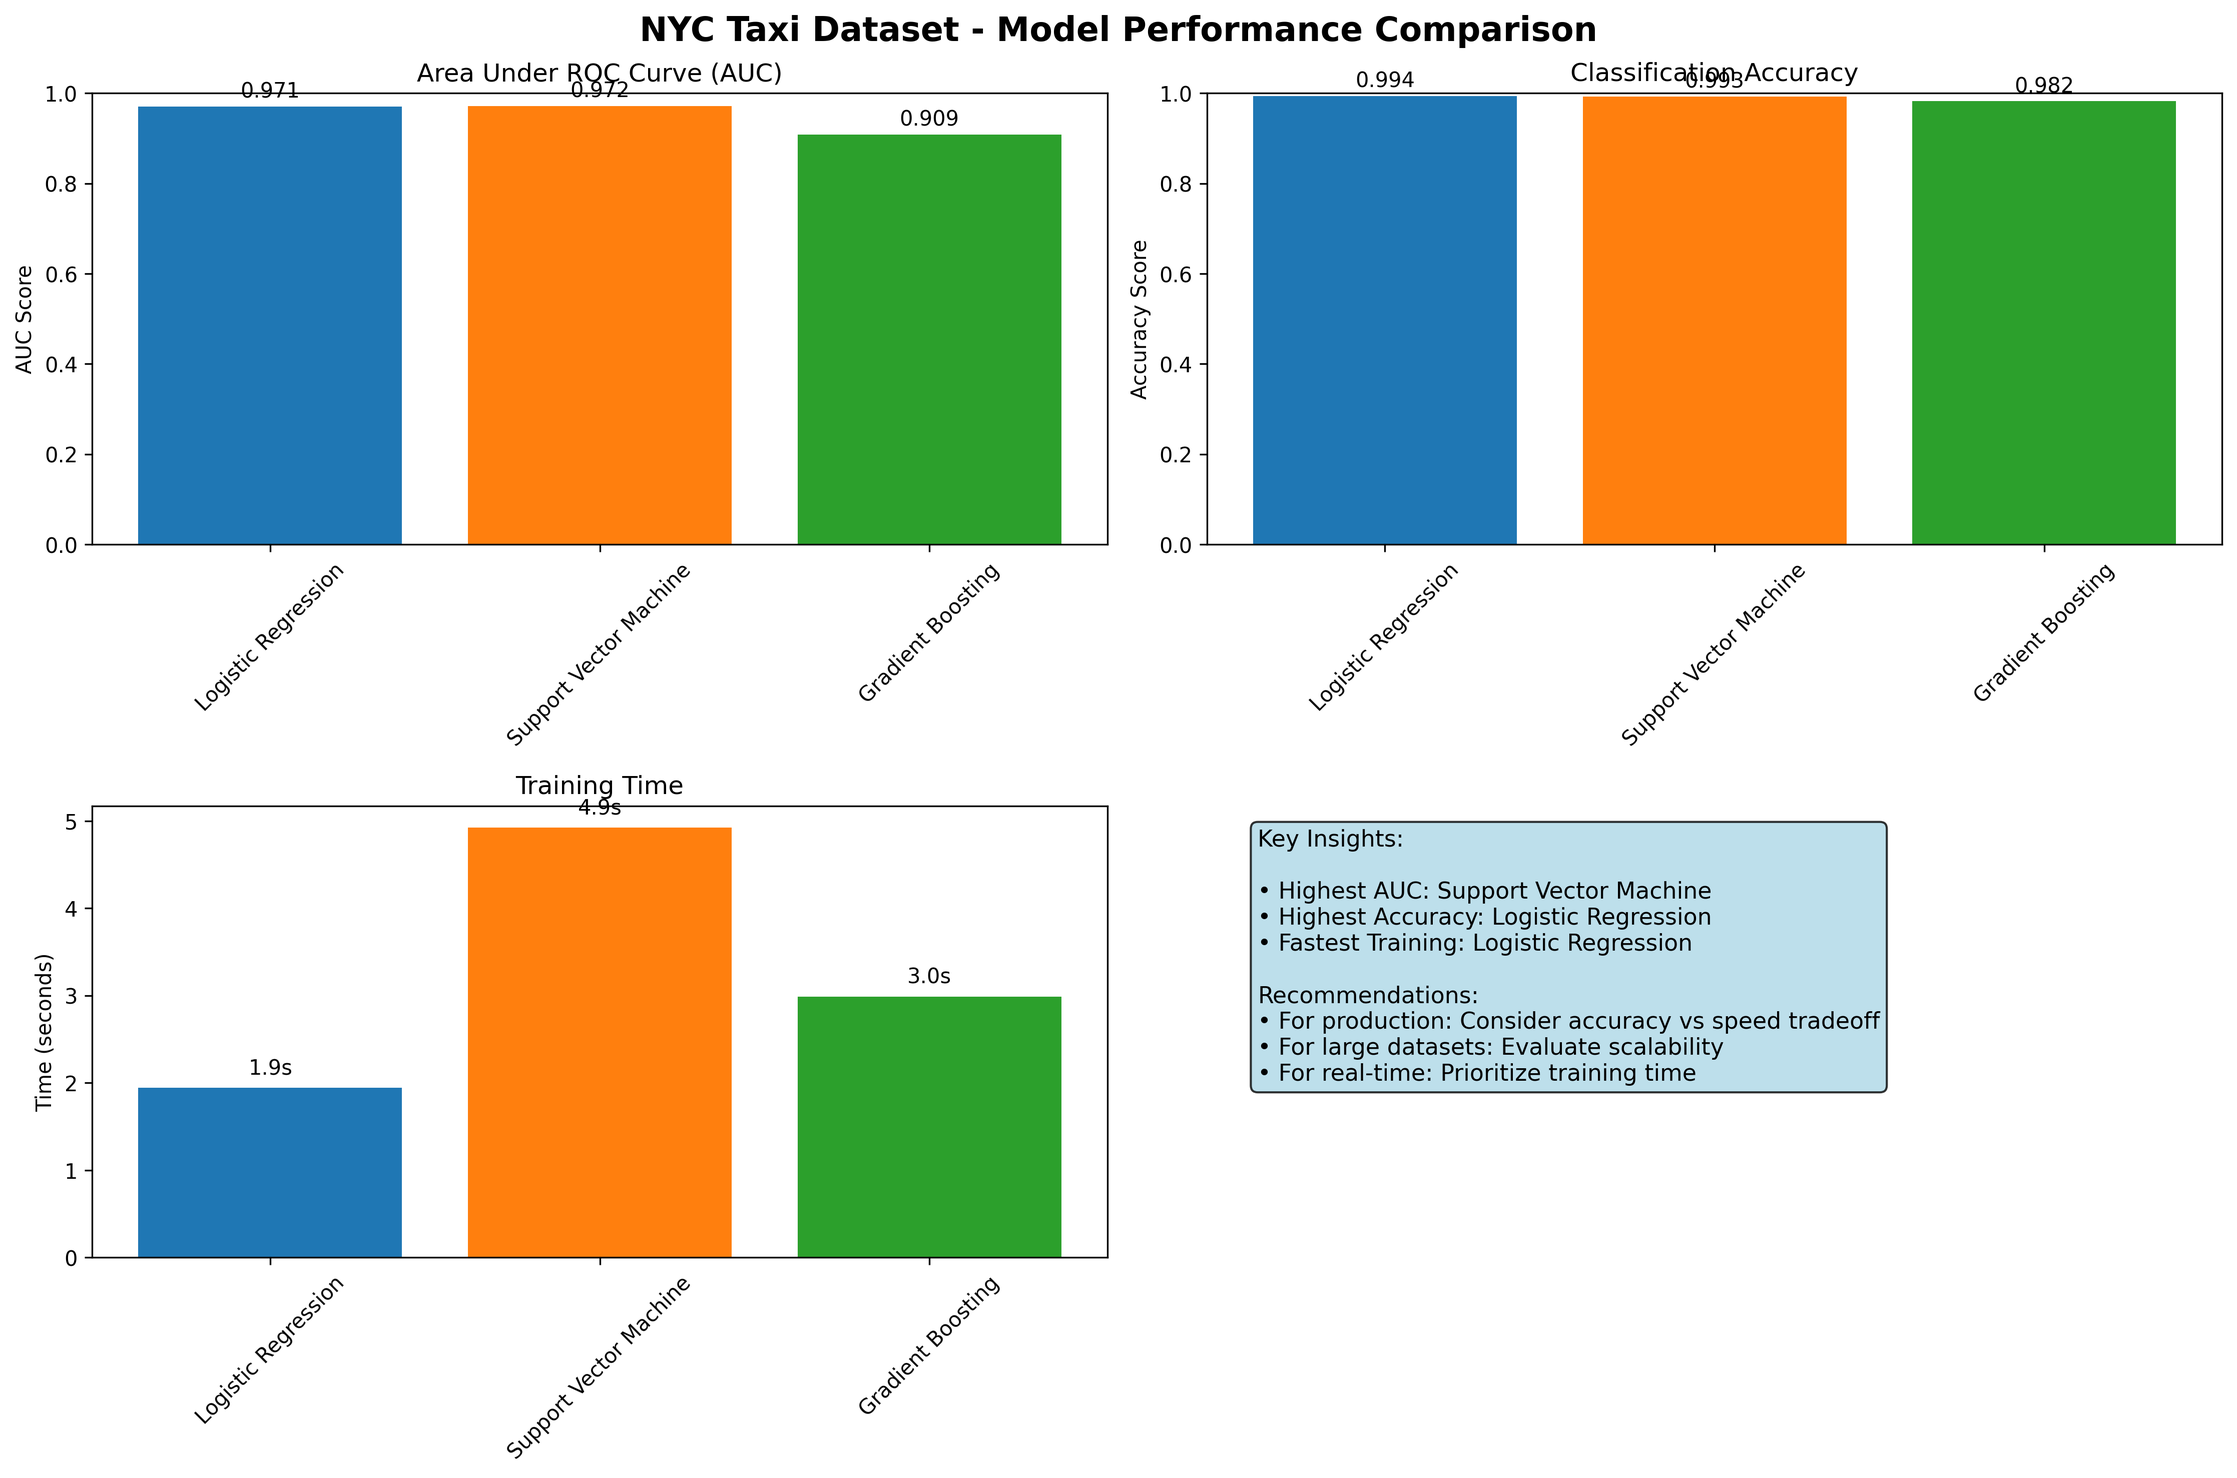
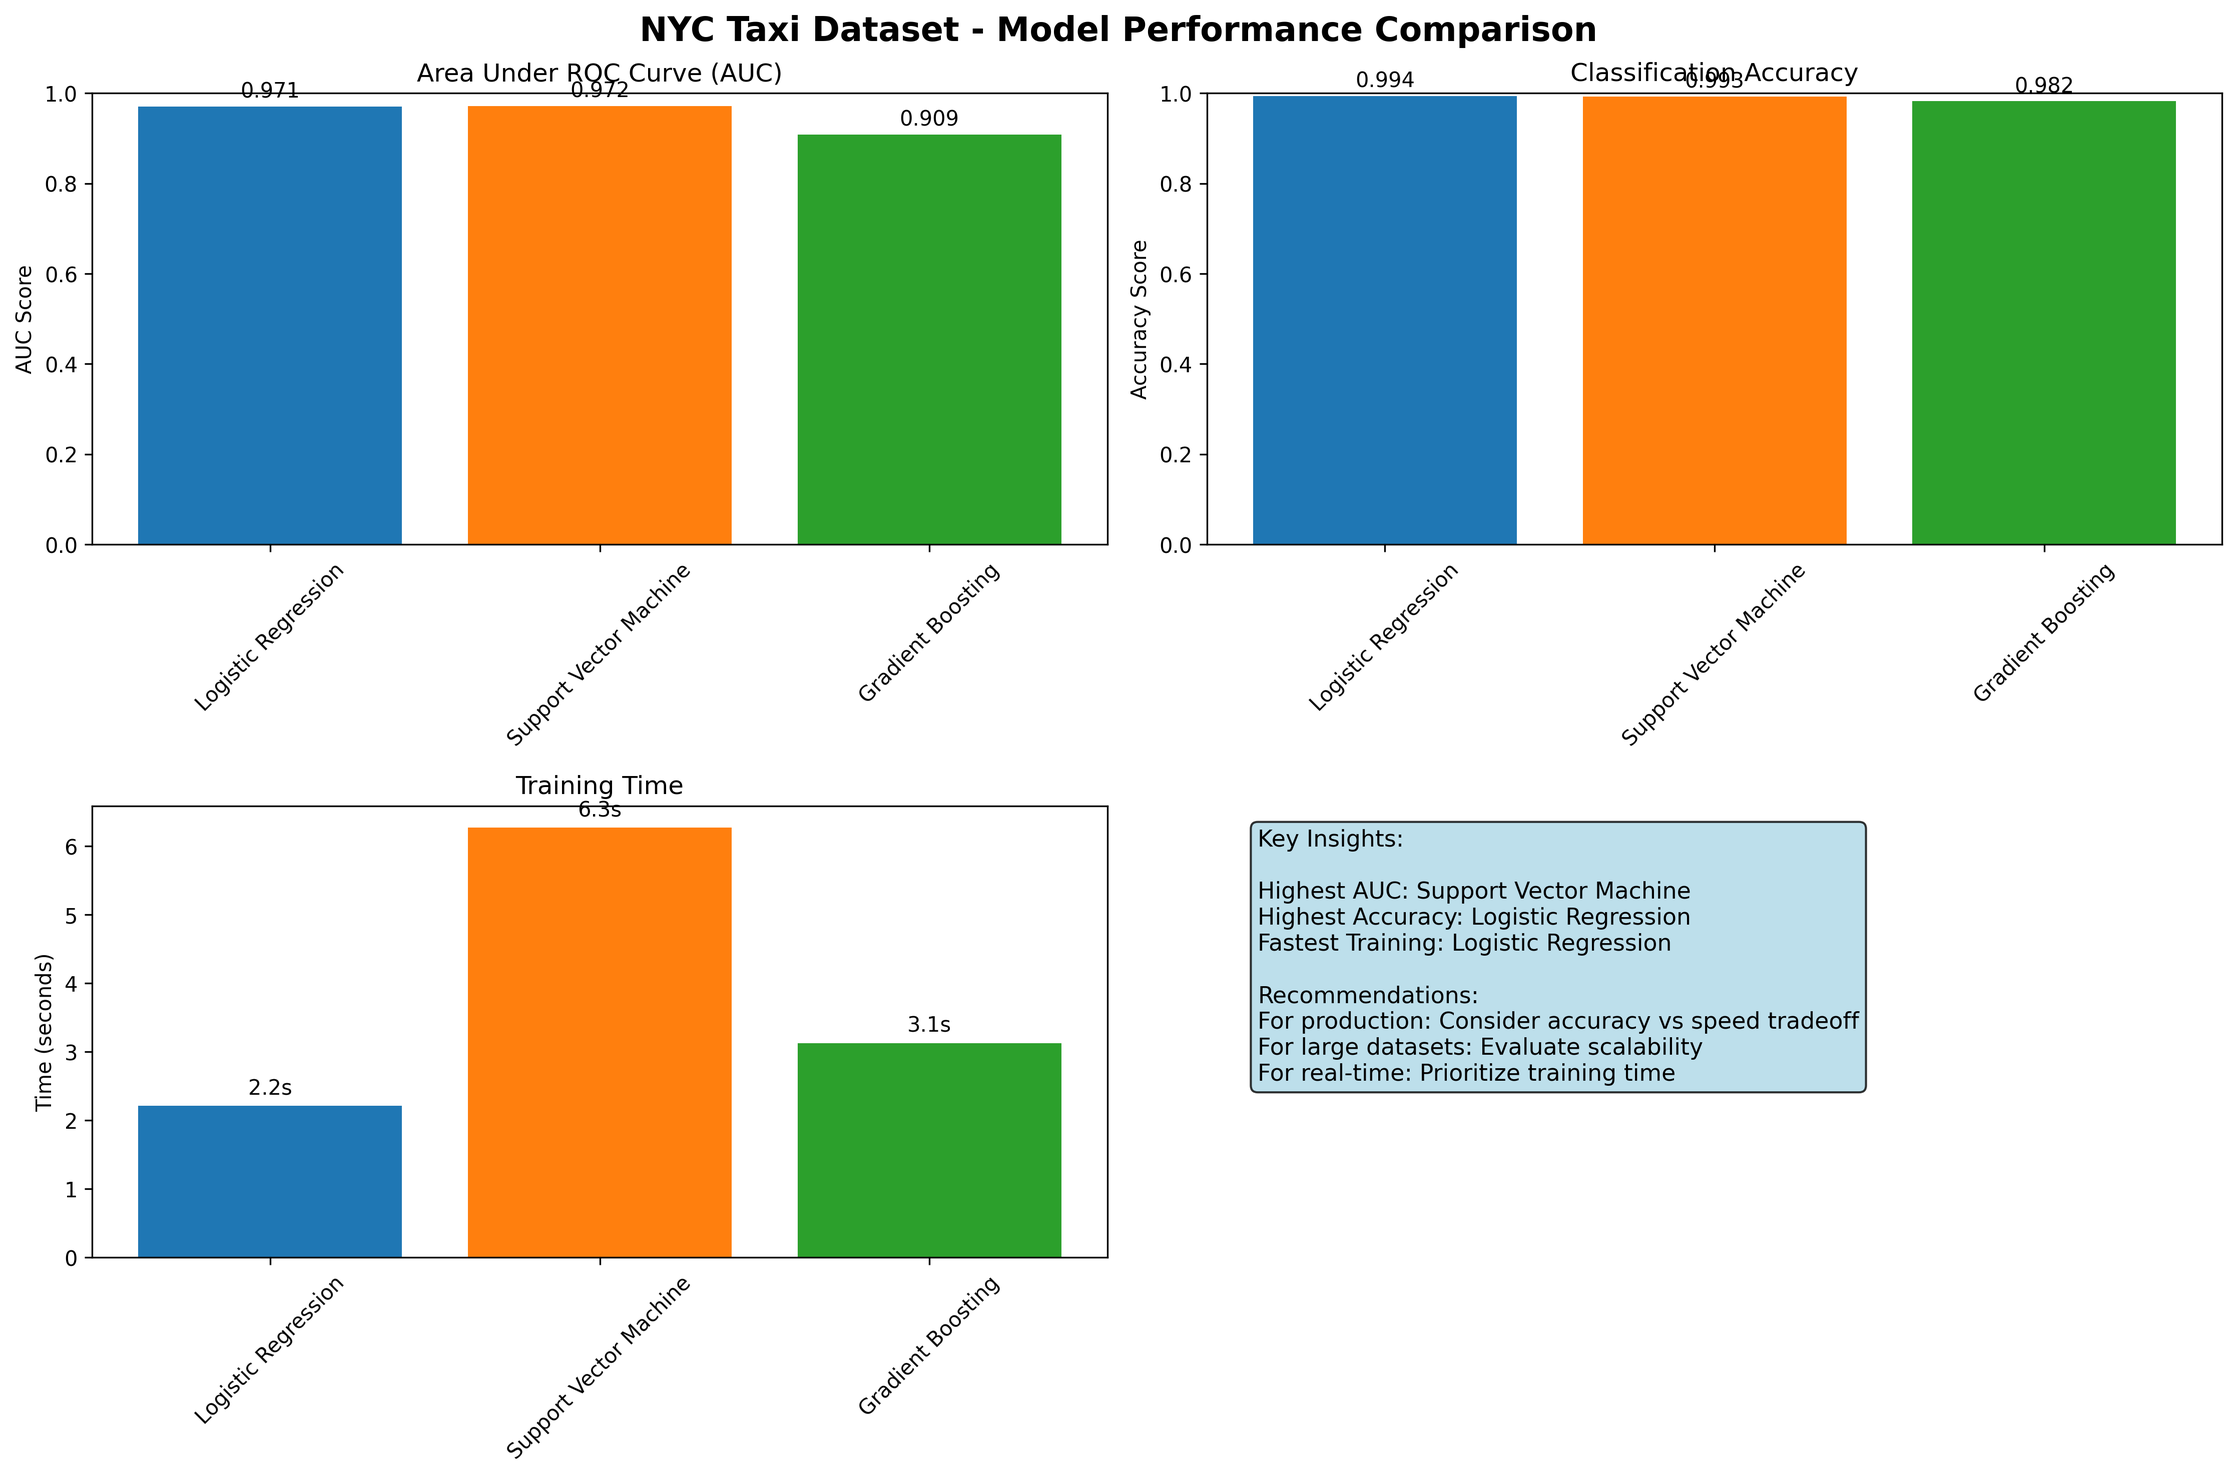
v0.0.2

diff --git a/term-paper/code/METCS777-term-paper-code-sample-Team5.py b/term-paper/code/METCS777-term-paper-code-sample-Team5.py
@@ -1,31 +1,5 @@
-"""
-NYC Yellow Taxi Dataset - Supervised Learning Model Comparison Using PySpark
-
-Purpose:
-    This script implements a comparative experiment of three supervised learning models:
-    - Logistic Regression
-    - Support Vector Machine (Linear SVC)
-    - Gradient Boosting Trees
-    
-    The models are trained and evaluated on a sampled NYC Yellow Taxi dataset to predict
-    whether fare_amount > 30 (binary classification).
-
-Environment Setup:
-    - Requires PySpark 3.x
-    - Python 3.7+
-    - Java 8 or 11
-    
-How to Run:
-    1. Ensure PySpark is installed: pip install pyspark
-    2. Navigate to the term-paper/code directory
-    3. Run: python METCS777-term-paper-code-sample-Team5.py
-
-Author: Team 5
-Date: 2024-10-31
-"""
-
 # =============================================================================
-# 1⃣ ENVIRONMENT SETUP
+# ENVIRONMENT SETUP
 # =============================================================================
 
 import time
@@ -51,11 +25,11 @@ def initialize_spark():
         .getOrCreate()
     
     spark.sparkContext.setLogLevel("WARN")  # Reduce verbose logging
-    print(f"✅ SparkSession initialized with {spark.sparkContext.defaultParallelism} cores")
+    print(f"SparkSession initialized with {spark.sparkContext.defaultParallelism} cores")
     return spark
 
 # =============================================================================
-# 2⃣ DATA LOADING & PREPROCESSING
+# DATA LOADING & PREPROCESSING
 # =============================================================================
 
 def load_and_preprocess_data(spark, file_path):
@@ -91,12 +65,12 @@ def load_and_preprocess_data(spark, file_path):
         StructField("total_amount", DoubleType(), True)
     ])
     
-    print("📂 Loading dataset...")
+    print("Loading dataset...")
     df = spark.read.csv(file_path, header=False, schema=schema)
     print(f"   Initial dataset size: {df.count():,} records")
     
     # Data cleaning: remove null and invalid records
-    print("🧹 Cleaning data...")
+    print("Cleaning data...")
     df_clean = df.filter(
         (col("trip_distance") > 0) &
         (col("fare_amount") > 0) &
@@ -108,7 +82,7 @@ def load_and_preprocess_data(spark, file_path):
     print(f"   After cleaning: {df_clean.count():,} records")
     
     # Convert pickup_datetime to timestamp and extract features
-    print("⏰ Extracting temporal features...")
+    print("Extracting temporal features...")
     df_features = df_clean.withColumn(
         "pickup_timestamp", 
         col("pickup_datetime").cast(TimestampType())
@@ -133,8 +107,8 @@ def load_and_preprocess_data(spark, file_path):
     feature_cols = ["trip_distance", "passenger_count", "pickup_hour", "pickup_dayofweek"]
     final_df = df_with_target.select(feature_cols + ["label"])
     
-    print(f"✨ Preprocessing complete. Features: {feature_cols}")
-    print("📊 Target distribution:")
+    print(f"Preprocessing complete. Features: {feature_cols}")
+    print("Target distribution:")
     final_df.groupBy("label").count().show()
     
     return final_df, feature_cols
@@ -152,12 +126,12 @@ def prepare_ml_data(df, feature_cols):
     """
     
     # Assemble features into a single vector column
-    print("🔧 Assembling features...")
+    print("Assembling features...")
     assembler = VectorAssembler(inputCols=feature_cols, outputCol="features")
     df_assembled = assembler.transform(df).select("features", "label")
     
     # Split data into training and test sets (80/20)
-    print("✂ Splitting data (80% train, 20% test)...")
+    print("Splitting data (80% train, 20% test)...")
     train_df, test_df = df_assembled.randomSplit([0.8, 0.2], seed=42)
     
     train_count = train_df.count()
@@ -169,12 +143,12 @@ def prepare_ml_data(df, feature_cols):
     return train_df, test_df
 
 # =============================================================================
-# 3⃣ MODEL TRAINING & EVALUATION
+# MODEL TRAINING & EVALUATION
 # =============================================================================
 
 def train_logistic_regression(train_df, test_df):
     """Train and evaluate Logistic Regression model."""
-    print("\n🤖 Training Logistic Regression...")
+    print("\nTraining Logistic Regression...")
     
     start_time = time.time()
     lr = LogisticRegression(featuresCol="features", labelCol="label", maxIter=100)
@@ -191,9 +165,9 @@ def train_logistic_regression(train_df, test_df):
     auc = auc_evaluator.evaluate(lr_predictions)
     accuracy = accuracy_evaluator.evaluate(lr_predictions)
     
-    print(f"   ✅ Training completed in {training_time:.2f} seconds")
-    print(f"   📊 AUC: {auc:.4f}")
-    print(f"   🎯 Accuracy: {accuracy:.4f}")
+    print(f"   Training completed in {training_time:.2f} seconds")
+    print(f"   AUC: {auc:.4f}")
+    print(f"   Accuracy: {accuracy:.4f}")
     
     return {
         'model': 'Logistic Regression',
@@ -204,7 +178,7 @@ def train_logistic_regression(train_df, test_df):
 
 def train_svm(train_df, test_df):
     """Train and evaluate Support Vector Machine model."""
-    print("\n🤖 Training Support Vector Machine...")
+    print("\nTraining Support Vector Machine...")
     
     start_time = time.time()
     svm = LinearSVC(featuresCol="features", labelCol="label", maxIter=100)
@@ -221,9 +195,9 @@ def train_svm(train_df, test_df):
     auc = auc_evaluator.evaluate(svm_predictions)
     accuracy = accuracy_evaluator.evaluate(svm_predictions)
     
-    print(f"   ✅ Training completed in {training_time:.2f} seconds")
-    print(f"   📊 AUC: {auc:.4f}")
-    print(f"   🎯 Accuracy: {accuracy:.4f}")
+    print(f"   Training completed in {training_time:.2f} seconds")
+    print(f"   AUC: {auc:.4f}")
+    print(f"   Accuracy: {accuracy:.4f}")
     
     return {
         'model': 'Support Vector Machine',
@@ -234,7 +208,7 @@ def train_svm(train_df, test_df):
 
 def train_gradient_boosting(train_df, test_df):
     """Train and evaluate Gradient Boosting Trees model."""
-    print("\n🤖 Training Gradient Boosting Trees...")
+    print("\nTraining Gradient Boosting Trees...")
     
     start_time = time.time()
     gbt = GBTClassifier(featuresCol="features", labelCol="label", maxIter=20)
@@ -251,9 +225,9 @@ def train_gradient_boosting(train_df, test_df):
     auc = auc_evaluator.evaluate(gbt_predictions)
     accuracy = accuracy_evaluator.evaluate(gbt_predictions)
     
-    print(f"   ✅ Training completed in {training_time:.2f} seconds")
-    print(f"   📊 AUC: {auc:.4f}")
-    print(f"   🎯 Accuracy: {accuracy:.4f}")
+    print(f"   Training completed in {training_time:.2f} seconds")
+    print(f"   AUC: {auc:.4f}")
+    print(f"   Accuracy: {accuracy:.4f}")
     
     return {
         'model': 'Gradient Boosting',
@@ -263,13 +237,13 @@ def train_gradient_boosting(train_df, test_df):
     }
 
 # =============================================================================
-# 4⃣ RESULTS VISUALIZATION & REPORTING
+# RESULTS VISUALIZATION & REPORTING
 # =============================================================================
 
 def create_results_table(results):
     """Create and display results comparison table."""
     print("\n" + "="*60)
-    print("📈 MODEL PERFORMANCE COMPARISON")
+    print("MODEL PERFORMANCE COMPARISON")
     print("="*60)
     
     # Create DataFrame for results
@@ -287,7 +261,7 @@ def create_results_table(results):
     os.makedirs(output_dir, exist_ok=True)
     results_path = os.path.join(output_dir, 'model_comparison_results.csv')
     results_df.to_csv(results_path, index=False)
-    print(f"\n💾 Results saved to: {results_path}")
+    print(f"\nResults saved to: {results_path}")
     
     return results_df
 
@@ -337,20 +311,20 @@ def plot_results(results_df):
             ax3.text(bar.get_x() + bar.get_width()/2., height + 0.1,
                     f'{height:.1f}s', ha='center', va='bottom')
         
-        # Combined performance radar chart would go in ax4, but let's use a simple summary
+        # Summary insights
         ax4.axis('off')
         summary_text = "Key Insights:\n\n"
         best_auc = results_df.loc[results_df['auc'].idxmax(), 'model']
         best_acc = results_df.loc[results_df['accuracy'].idxmax(), 'model']
         fastest = results_df.loc[results_df['training_time'].idxmin(), 'model']
         
-        summary_text += f"• Highest AUC: {best_auc}\n"
-        summary_text += f"• Highest Accuracy: {best_acc}\n"
-        summary_text += f"• Fastest Training: {fastest}\n\n"
+        summary_text += f"Highest AUC: {best_auc}\n"
+        summary_text += f"Highest Accuracy: {best_acc}\n"
+        summary_text += f"Fastest Training: {fastest}\n\n"
         summary_text += "Recommendations:\n"
-        summary_text += "• For production: Consider accuracy vs speed tradeoff\n"
-        summary_text += "• For large datasets: Evaluate scalability\n"
-        summary_text += "• For real-time: Prioritize training time"
+        summary_text += "For production: Consider accuracy vs speed tradeoff\n"
+        summary_text += "For large datasets: Evaluate scalability\n"
+        summary_text += "For real-time: Prioritize training time"
         
         ax4.text(0.05, 0.95, summary_text, transform=ax4.transAxes, fontsize=11,
                 verticalalignment='top', bbox=dict(boxstyle='round', facecolor='lightblue', alpha=0.8))
@@ -362,23 +336,23 @@ def plot_results(results_df):
         os.makedirs(output_dir, exist_ok=True)
         viz_path = os.path.join(output_dir, 'model_comparison_visualization.png')
         plt.savefig(viz_path, dpi=300, bbox_inches='tight')
-        print(f"📊 Visualization saved to: {viz_path}")
+        print(f"Visualization saved to: {viz_path}")
         plt.show()
         
     except Exception as e:
-        print(f"⚠  Could not create visualization: {e}")
+        print(f"Could not create visualization: {e}")
         print("   (This is normal if running in a headless environment)")
 
 # =============================================================================
-# 5⃣ MAIN EXECUTION
+# MAIN EXECUTION
 # =============================================================================
 
 def main():
     """Main execution function that orchestrates the entire experiment."""
     
-    print("🚕" * 20)
+    print("=" * 60)
     print("NYC YELLOW TAXI DATASET - ML MODEL COMPARISON")
-    print("🚕" * 20)
+    print("=" * 60)
     
     # Initialize Spark
     spark = initialize_spark()
@@ -408,21 +382,21 @@ def main():
         results_df = create_results_table(results)
         plot_results(results_df)
         
-        print("\n🎉 Experiment completed successfully!")
-        print("\n💡 Key Takeaways:")
-        print("   • All three models show different strengths")
-        print("   • Consider your specific use case requirements")
-        print("   • Scalability matters for production deployment")
+        print("\nExperiment completed successfully!")
+        print("\nKey Takeaways:")
+        print("   - All three models show different strengths")
+        print("   - Consider your specific use case requirements")
+        print("   - Scalability matters for production deployment")
         
     except Exception as e:
-        print(f"❌ Error during execution: {e}")
+        print(f"Error during execution: {e}")
         import traceback
         traceback.print_exc()
     
     finally:
         # Clean up Spark session
         spark.stop()
-        print("🛑 SparkSession stopped")
+        print("SparkSession stopped")
 
 if __name__ == "__main__":
     main()

diff --git a/README.md b/README.md
@@ -10,7 +10,7 @@ This repository contains the term project for **METCS777 - Big Data Analytics** 
 
 **Course:** METCS777 - Big Data Analytics  
 **Institution:** Boston University Metropolitan College  
-**Date:** October 2024
+**Date:** October 31st, 2025
 
 ## 🎯 Project Objectives
 
@@ -75,7 +75,7 @@ conda activate spark-env
 conda install -c conda-forge pyspark pandas matplotlib
 ```
 
-## 🚀 How to Run the Code
+## How to Run the Code
 
 ### Step 1: Navigate to Code Directory
 ```bash
@@ -100,7 +100,7 @@ The script will:
 - **Memory usage:** ~2-4 GB (automatically managed by Spark)
 - **Output files:** CSV results and PNG visualization
 
-## 📊 Results of Running the Code
+## Results of Running the Code
 
 ### Performance Comparison Table
 
@@ -123,7 +123,7 @@ The script will:
 - **Class imbalance** (162 positive vs 9,764 negative samples) handled well by all models
 - **Computational efficiency** varies significantly, with Logistic Regression being 2.5x faster than SVM
 
-## 📊 Dataset Description and Analysis
+## Dataset Description and Analysis
 
 ### NYC Yellow Taxi Dataset
 
@@ -207,7 +207,7 @@ The script will:
 - **Accuracy:** All above 98%, reflecting dataset characteristics and model quality
 - **Training Efficiency:** Linear models significantly faster than ensemble method
 
-## 🔍 Technical Implementation Details
+## Technical Implementation Details
 
 ### Spark Configuration
 ```python
@@ -231,7 +231,7 @@ SparkSession.builder \
 - **Cross-validation ready** architecture
 - **Scalable design** for larger datasets
 
-## 🎯 Business Applications and Implications
+## Business Applications and Implications
 
 ### Practical Use Cases
 1. **Dynamic pricing systems** for ride-sharing platforms
@@ -245,7 +245,7 @@ SparkSession.builder \
 - **Real-time deployment:** Model serialization and serving capabilities
 - **Batch processing:** Suitable for large-scale daily predictions
 
-## 🚧 Future Enhancements
+## Future Enhancements
 
 1. **Feature enrichment:** Weather data, traffic patterns, events
 2. **Deep learning models:** Neural networks for complex pattern recognition
@@ -254,7 +254,7 @@ SparkSession.builder \
 5. **Advanced metrics:** Precision, Recall, F1-score analysis
 6. **Geographic analysis:** Spatial clustering and zone-based models
 
-## 📚 References and Dependencies
+## References and Dependencies
 
 ### Libraries Used
 - **PySpark 3.x:** Distributed computing and MLlib algorithms
@@ -270,11 +270,11 @@ SparkSession.builder \
 
 ---
 
-## 📞 Contact Information
+## Contact Information
 
 **Team Members:**
-- **Boran Liu:** [email/contact]
-- **Hongkai Dai:** [email/contact]
+- **Boran Liu:** [jksliu@bu.edu]
+- **Hongkai Dai:** [daihk@bu.edu]
 
 **Course:** METCS777 - Big Data Analytics  
 **Institution:** Boston University Metropolitan College
